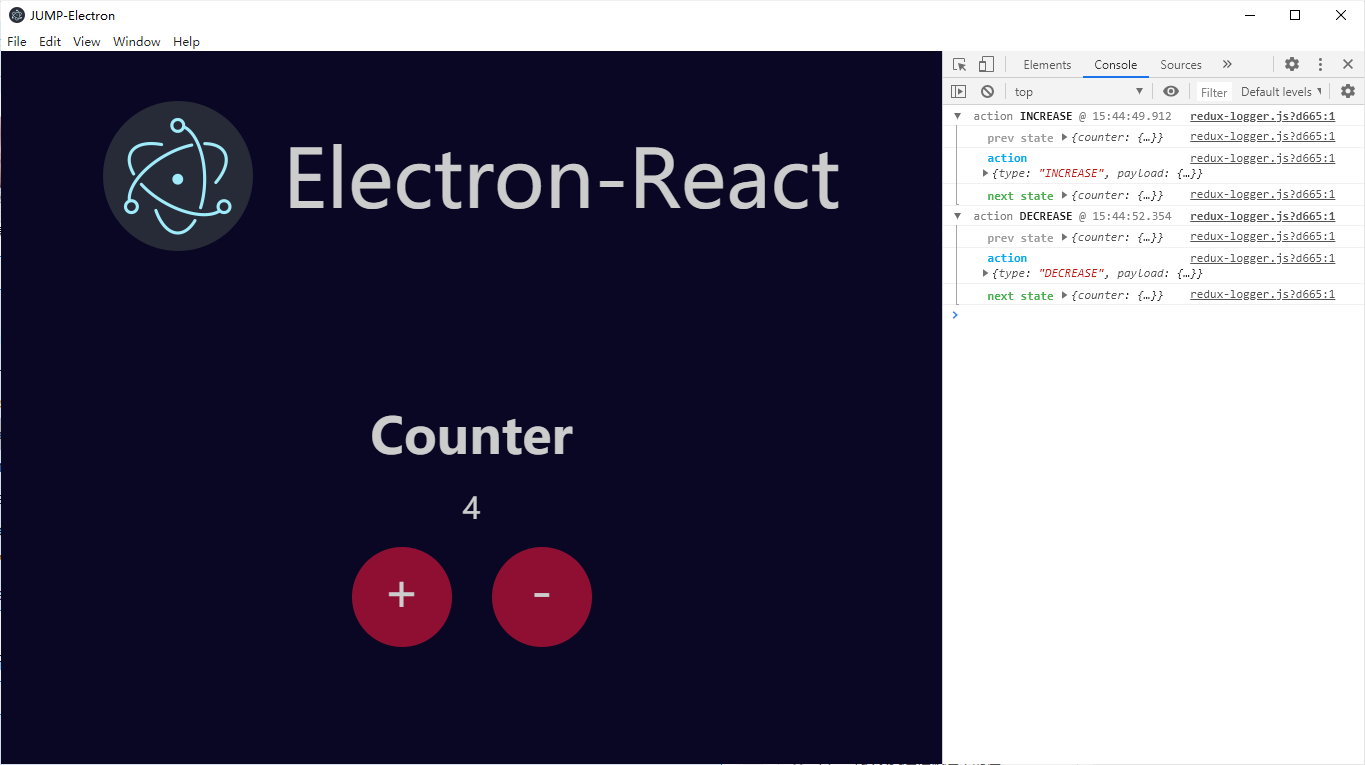
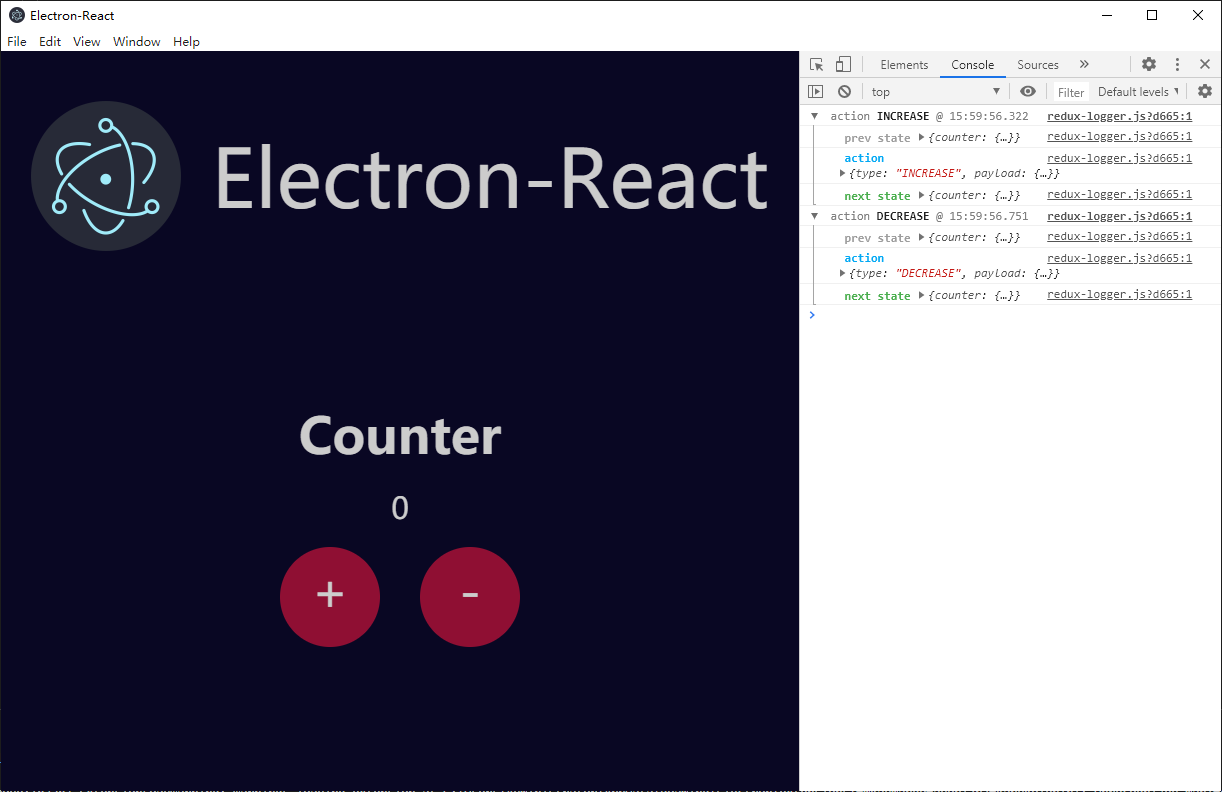
优化

diff --git a/src/main/index.js b/src/main/index.js
@@ -22,9 +22,9 @@ function createWindow () {
    * Initial window options
    */
   mainWindow = new BrowserWindow({
-    height: 563,
+    height: 740,
     useContentSize: true,
-    width: 1000,
+    width: 1220,
     webPreferences: {
       nodeIntegration: true,
     },
